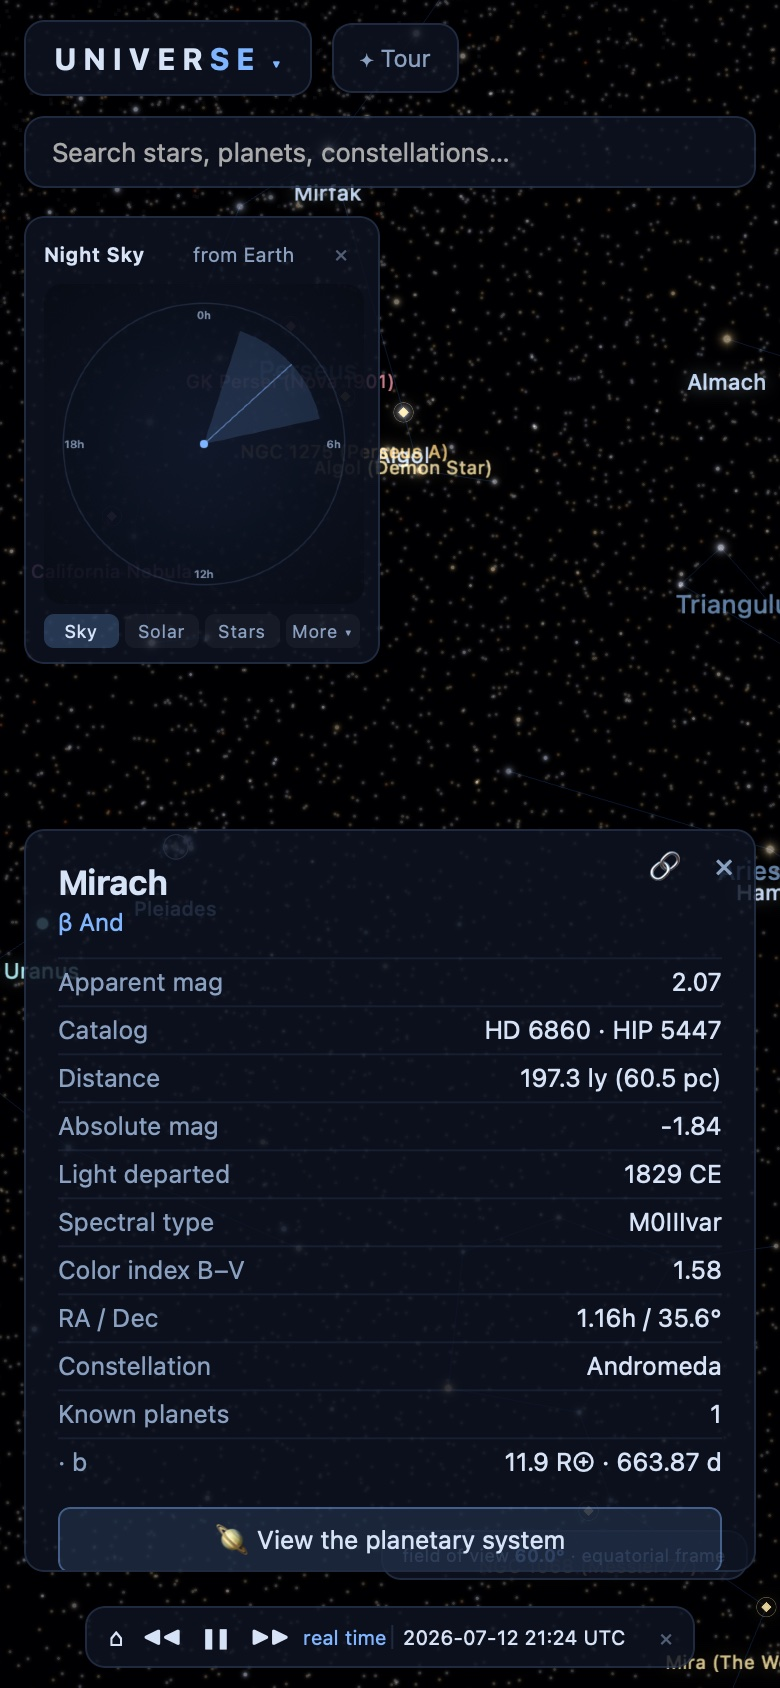
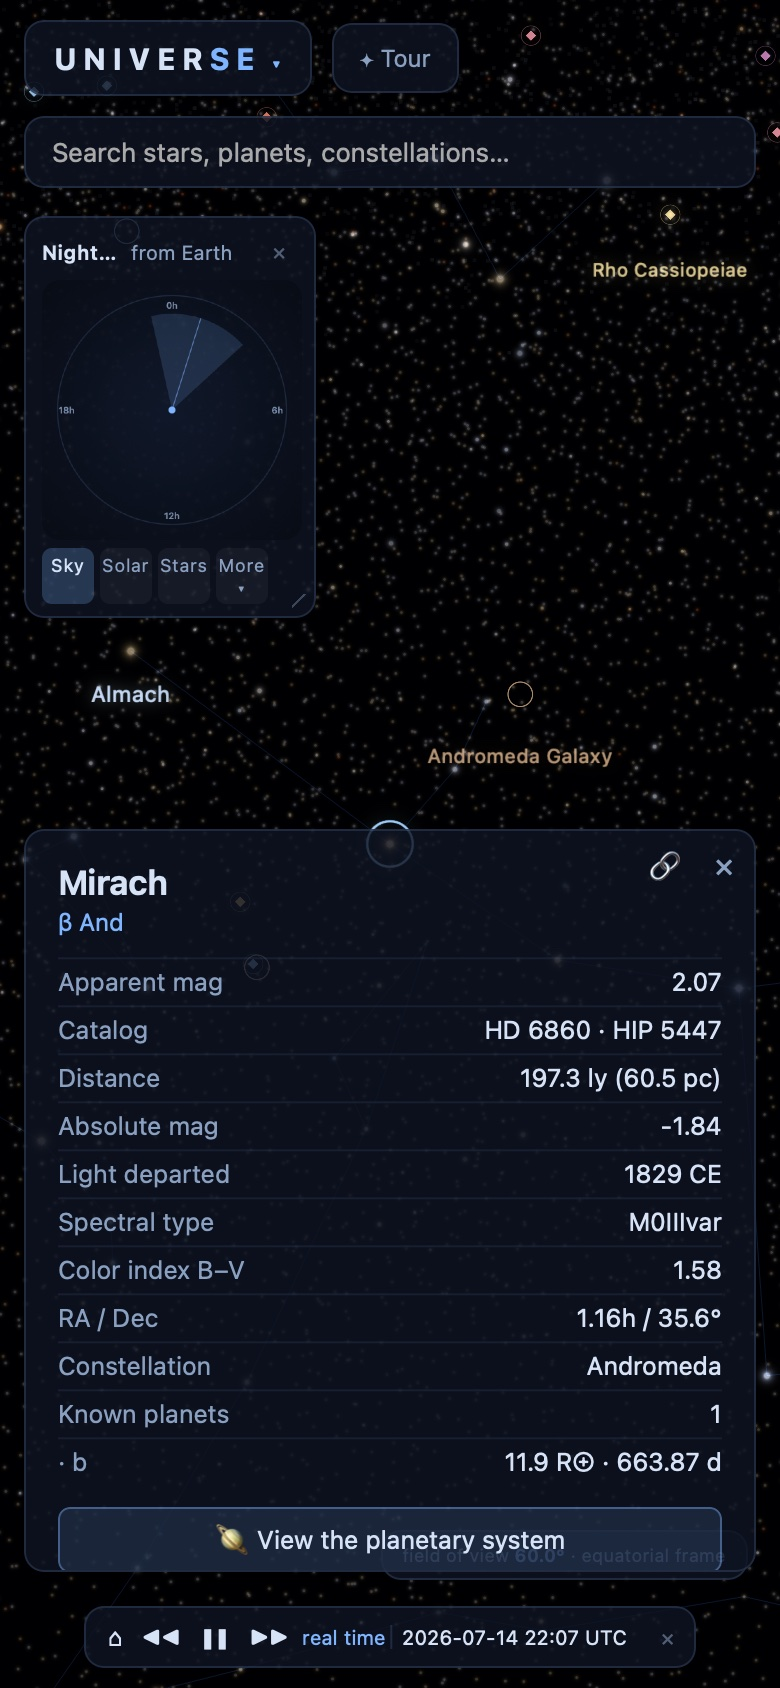
Sky labels: collision + chrome-aware declutter; retaken mobile figure; resume graphics variant; case-study performance passage; prose sweep

diff --git a/universe/js/main.js b/universe/js/main.js
@@ -618,6 +618,7 @@ for (const c of CONS) {
   const sp = makeTextSprite(c.name, { size: 13, color: '#6f93bd', alpha: 0.85 });
   sp.position.copy(dirVec(c.label[0], c.label[1]).multiplyScalar(R_SKY * 0.98));
   sp.renderOrder = 7;
+  sp.userData.dPri = 40;                       // sky declutter: constellations above markers
   conLabelGroup.add(sp);
   labelGroups.sky.push(sp);
 }
@@ -632,6 +633,7 @@ for (const [idxStr, name] of Object.entries(STARS.names)) {
   sp.center.set(0.5, 1.5);
   sp.position.set(dirs[i * 3] * R_SKY * 0.99, dirs[i * 3 + 1] * R_SKY * 0.99, dirs[i * 3 + 2] * R_SKY * 0.99);
   sp.renderOrder = 7;
+  sp.userData.dPri = 20 + STARS.mag[i];        // sky declutter: brighter names win
   starNameGroup.add(sp);
   labelGroups.sky.push(sp);
 }
@@ -708,6 +710,7 @@ const dsoDirs = [];
     dsoGroup.add(mark);
     labelGroups.sky.push(mark);
     const lab = makeTextSprite(name, { size: 10, color: dsoColors[type], alpha: 0.8 });
+    lab.userData.dPri = 60;                    // sky declutter: below star & constellation names
     lab.center.set(0.5, 2.0);
     lab.position.copy(mark.position);
     lab.renderOrder = 7;
@@ -761,6 +764,8 @@ function makeMarkerTexture(color) {
     lab.center.set(0.5, 1.9);
     lab.position.copy(mark.position);
     lab.renderOrder = 8;
+    lab.userData.dPri = 80;                    // sky declutter: yield to star/constellation names
+    lab.userData.dGate = () => mark.visible;   // category toggles own the mark; follow it
     phenomGroup.add(lab);
     labelGroups.sky.push(lab);
     phenomByCat[ph.cat].push(mark, lab);
@@ -958,6 +963,7 @@ for (const name of SKY_BODIES) {
   const lab = makeTextSprite(name, { size: 11, color: col, alpha: 0.95 });
   lab.center.set(0.5, 1.6);
   lab.renderOrder = 7;
+  lab.userData.dPri = 1;                       // sky declutter: planets always keep their names
   skyPlanetGroup.add(disc, lab);
   labelGroups.sky.push(disc, lab);
   skyBodies[name] = { disc, lab, dir: new THREE.Vector3(1, 0, 0), raDec: { ra: 0, dec: 0, r: 1 } };
@@ -2806,6 +2812,47 @@ const neiStarLabels = [];
 // resolves into whatever actually fits instead of printing into one knot.
 let _neiDeclutterList = null;
 const _dlV = new THREE.Vector3();
+// Sky labels compete for screen space the same way the stars view's do: sorted by
+// priority (planets, then bright star names, constellations, DSOs, phenomena), each
+// label claims its on-screen box and lower-priority overlaps are hidden. Labels whose
+// layer is off (parent group hidden, or a phenomena category unchecked) neither show
+// nor reserve space, and their toggle state is never overwritten.
+let _skyDeclutterList = null;
+// the fixed interface panels claim their screen space first, so no label ever
+// prints underneath the search bar, minimap, info card, tour card or time bar
+const _chromeIds = ['topbar', 'searchbox', 'locator', 'infocard', 'timebar', 'scalebar', 'fly-hud', 'tour', 'panel'];
+function declutterSkyLabels() {
+  if (!_skyDeclutterList) {
+    _skyDeclutterList = labelGroups.sky
+      .filter((sp) => sp.userData.dPri !== undefined)
+      .sort((a, b) => a.userData.dPri - b.userData.dPri);
+  }
+  const placed = [];
+  for (const id of _chromeIds) {
+    const el = document.getElementById(id);
+    if (!el) continue;
+    const cs = getComputedStyle(el);
+    if (cs.display === 'none' || cs.visibility === 'hidden' || +cs.opacity === 0) continue;
+    const r = el.getBoundingClientRect();
+    if (!r.width || !r.height) continue;
+    placed.push({ x: r.left + r.width / 2, y: r.top + r.height / 2, w: r.width, h: r.height });
+  }
+  for (const sp of _skyDeclutterList) {
+    if (!sp.parent || !sp.parent.visible) continue;          // layer off: leave it alone
+    if (sp.userData.dGate && !sp.userData.dGate()) continue; // category off: same
+    _dlV.copy(sp.position).applyQuaternion(skyGroup.quaternion).project(skyCam);
+    if (_dlV.z > 1) { sp.visible = false; continue; }
+    const w = sp.userData.pxW + 6, h = sp.userData.pxH + 4;
+    const x = (_dlV.x + 1) / 2 * innerWidth + (0.5 - sp.center.x) * sp.userData.pxW;
+    const y = (-_dlV.y + 1) / 2 * innerHeight + (sp.center.y - 0.5) * sp.userData.pxH;
+    let hit = false;
+    for (const q of placed) {
+      if (Math.abs(x - q.x) * 2 < w + q.w && Math.abs(y - q.y) * 2 < h + q.h) { hit = true; break; }
+    }
+    sp.visible = !hit;
+    if (!hit) placed.push({ x, y, w, h });
+  }
+}
 function declutterNeiLabels(state) {
   if (!_neiDeclutterList) {
     _neiDeclutterList = labelGroups.neighborhood
@@ -6469,6 +6516,7 @@ function animate(now) {
     }
     updateSkyBodies(time.jd);
     updateHorizonFrame(time.jd);
+    declutterSkyLabels();
     // Exoplanet dots scale with zoom: at wide fields thousands of additive points
     // stack up (the Kepler field burned into a solid slab); smaller + dimmer when
     // zoomed out keeps the field a resolved cluster of gold points, and zooming in

diff --git a/studies/universe.html b/studies/universe.html
@@ -116,6 +116,7 @@
     </figure>
     <h2><span>DECISION 04</span>Load only what the first minute needs</h2>
     <p>The heaviest UX problem was the loading bar. The scene gated on tens of megabytes of 8K planet textures a first-time visitor couldn't yet see the value of. The fix is progressive: the loader now waits only for lightweight 2K stand-ins, then the full-resolution maps stream in one at a time behind the already-live scene and swap in invisibly. Time-to-interactive dropped roughly five-fold, and nothing pops or flashes. The first Jupiter you see is a slightly softer version of the one you can orbit a minute later.</p>
+    <p>While the page sits idle, the model also precompiles every scene's shaders and uploads every texture to the GPU, so the first visit to each scale doesn't stutter on setup work. If a device can't hold 60 frames per second, the render resolution steps down a quarter at a time until it can, with enough hysteresis that it never flickers between states. And all 119,625 stars draw in one GPU call, with each star's vertex deciding its own visibility, so the magnitude slider can reveal the whole catalog at no extra cost.</p>
     <h2><span>DECISION 05</span>The same universe, one hand</h2>
     <p>Half of first visits arrive on a phone, so the phone version had to carry the full universe. I mapped touch onto the physics the model already had. Pinch feeds the same continuous zoom as the scroll wheel, so two fingers carry you from Saturn's rings out to the cosmic web. Two-finger drag pans, a tap selects, and a double-tap flies you to whatever you tapped. One wrinkle: a pinch always ends with a finger lifting, so the app has to tell “selected a star” apart from “finished zooming.”</p>
     <p>Flight was the one part I had to redesign. The desktop ship is flown with a keyboard. On a phone, a 🚀 button appears instead, and the ship starts at rest, because motion you didn't ask for is disorienting. Holding a finger down is thrust, and lifting it recenters the flight stick. The keyboard legend becomes a three-button HUD: Cruise, View, Exit. The guided tour adapts too. On a phone it teaches the 🚀 button, says “tap” and “pinch,” and info cards become full-width bottom sheets that slide over the sky instead of floating panels beside it.</p>
@@ -123,12 +124,12 @@
       <img class="plate-img" style="max-width:min(320px,100%);display:inline-block" src="../assets/uni-mobile.jpg" alt="The Universe app at phone width: the night sky with the minimap compass, and a full-width bottom-sheet card for the star Mirach listing its distance, spectral type, its known planet, and a 'View the planetary system' action">
       <figcaption>FIG. 1G · the same model at 390px: bottom-sheet cards, the minimap compass, and a tapped star's card, including its known exoplanet and a one-tap jump to its planetary system.</figcaption>
     </figure>
-    <p>The rest of the mobile pass chased each bug to its cause. The minimap's scale ladder overflowed its card on actual phones: enlarging the touch targets with horizontal padding had quietly made the row wider than its container, so the touch chips now grow vertically only. Render resolution is capped lower on phones to save battery and heat. The progressive 2K textures matter twice as much over cellular. Form inputs hold 16px so iOS stops zooming the page when you tap them, the layout respects the notch, the star twinkle turns itself off for people who prefer reduced motion, and if WebGL isn't available the loader says so instead of spinning forever.</p>
+    <p>The rest of the mobile pass chased each bug to its cause. The minimap's scale ladder overflowed its card on actual phones: enlarging the touch targets with horizontal padding had made the row wider than its container, so the touch chips now grow vertically only. Render resolution is capped lower on phones to save battery and heat. The progressive 2K textures matter twice as much over cellular. Form inputs hold 16px so iOS stops zooming the page when you tap them, the layout respects the notch, the star twinkle turns itself off for people who prefer reduced motion, and if WebGL isn't available the loader says so instead of spinning forever.</p>
     <h2><span>DECISION 06</span>The camera never moves uninvited</h2>
-    <p>Clicking a star used to zoom toward it. It took three versions to learn why that felt wrong. The first version recentered the camera on the clicked star, and the view lurched. The second replaced the lurch with a smooth glide, and it still felt like the model had grabbed the wheel. The third version moves nothing: a click draws a ring around the star, opens its card, and quietly re-anchors the zoom axis, so the star eases toward center only as you choose to zoom in. Back out again and your original framing returns exactly.</p>
+    <p>Clicking a star used to zoom toward it. It took three versions to learn why that felt wrong. The first version recentered the camera on the clicked star, and the view lurched. The second replaced the lurch with a smooth glide, and it still felt like the model had grabbed the wheel. The third version moves nothing: a click draws a ring around the star, opens its card, and re-anchors the zoom axis, so the star eases toward center only as you choose to zoom in. Back out again and your original framing returns exactly.</p>
     <p>The principle that fell out of those three rounds now governs the whole model: any camera motion the user didn't ask for is a bug. It shaped the fly-mode captures too. Early on, returning to the solar system meant hitting a pinpoint target in three dimensions, and most approaches missed. Now aiming anywhere near the Sun inside an approach cone carries you in, with a halo of rings growing ahead as the capture takes hold, so arrival reads as something you did on purpose.</p>
     <h2><span>THE CUTS</span>What I built and then deleted</h2>
-    <p>Some of the most useful design work on this model was deletion. Detailed 3D asteroid models, procedurally cratered and lit, replaced the simple glowing markers and made the belt read as clutter; the markers went back in. Scale models of the Apollo landers and Soviet rovers on the Moon looked like toys next to real imagery; the plain gold site markers said more. A rocket launcher with animated exhaust was fun for one flight and gimmicky by the third; deleted outright, about 235 lines. And a full set of speculative megastructures (a Dyson sphere, a space elevator, an Alcubierre warp bubble) was cut on principle: everything else in the model is real, and fiction sitting next to catalog data undermines the catalog data.</p>
+    <p>A lot of the design work on this model was deletion. Detailed 3D asteroid models, procedurally cratered and lit, replaced the simple glowing markers and made the belt read as clutter; the markers went back in. Scale models of the Apollo landers and Soviet rovers on the Moon looked like toys next to real imagery; the plain gold site markers said more. A rocket launcher with animated exhaust was fun for one flight and gimmicky by the third; deleted outright, about 235 lines. And a full set of speculative megastructures (a Dyson sphere, a space elevator, an Alcubierre warp bubble) was cut on principle: everything else in the model is real, and fiction sitting next to catalog data undermines the catalog data.</p>
     <p>Each cut followed the same test. If a feature makes the model more impressive but less credible, it goes. The physics visualizations stayed (spacetime curvature, the dark-matter halo) because they illustrate real science; the props went because they didn't.</p>
     <h2><span>THE DETAILS</span>Getting the small things right</h2>
     <p>The same principle runs under the surface: search closes when you click away and reopens where you left it; keyboard shortcuts survive the search box; the scale readout always tells you how wide the view is and how long light takes to cross it; star cards tell you when the light you're seeing left its star. The model also fails politely: if WebGL is unavailable the loader explains itself, the star twinkle turns off for visitors who prefer reduced motion, and every data source and artwork license ships as an attribution block inside the product. Nobody asks for these features, but they're what make the model feel dependable.</p>

diff --git a/resume.html b/resume.html
@@ -211,7 +211,10 @@
           textures, 21 moons, named asteroids, seven comets with dynamic anti-solar tails, and
           trans-Neptunian dwarf planets; time simulation spans the years 1000–3000.</li>
           <li>Orientation-first design: guided nine-stop tour, universal search across every rendered
-          object, data cards on click, and progressive texture loading for a fast first paint.</li>
+          object, and data cards on click.</li>
+          <li>Holds 60 fps with adaptive resolution scaling, idle-time shader precompilation and GPU
+          warm-up, progressive 8K texture streaming behind a 2K first paint, and a single-draw-call
+          point shader for all 119,625 stars.</li>
         </ul>
         <div class="cv-links">
           <a href="studies/universe.html">Read the case study →</a>

diff --git a/studies/a-souls-journey.html b/studies/a-souls-journey.html
@@ -69,11 +69,11 @@
       <div class="prose">
         <p>“Rest my soul” is a one-man choir: many voices, one performer, no score. Every part
         was found by ear, sung against the parts already recorded. The design problem was
-        keeping that complexity from reaching the listener, and the answer was one 3D virtual
+        keeping that complexity from reaching the listener, so everything lives in one 3D virtual
         world: a single landscape, built and animated to carry all the voices.</p>
         <p>The piece is really about the freedom that comes with singing every part yourself.
         There's no ensemble to write around, so the harmonic movement and the voice leading can
-        go wherever I want them to. That freedom, both creative and harmonic, is what the piece explores.</p>
+        go wherever I want them to. The piece explores that creative and harmonic freedom.</p>
         <p>On screen you can see how it's made: a wall of my own faces, one for every voice,
         singing together while the world around them keeps opening. You see the whole system
         and still hear one piece of music.</p>

diff --git a/studies/lifes-meaning.html b/studies/lifes-meaning.html
@@ -53,7 +53,7 @@
     <div class="question"><span class="qlbl">The design question</span><p>How do you direct an animated world you didn't draw yourself?</p></div>
     <p>“Life's Meaning” is an investigation into why we exist, in song. A question that big can't be illustrated literally without shrinking it, so the film became a collaboration with animator Caleb Worcester: we discussed the vision, he created a storyboard, and we edited it together from there. I performed every instrument in the arrangement myself: voice, piano, synthesizer, and the rest.</p>
     <div class="pao"><div><span>Challenge</span><p>Pair a philosophical question with images without reducing it to illustration, and realize a complex piece through a craft (animation) that isn't mine.</p></div><div><span>Decisions</span><p>Work through the storyboard: talk the vision out together, let Caleb draft it, then edit it together until the world matched the piece, and only then start animating.</p></div><div><span>Result</span><p>An animated film where the music and the image ask the same question, mixed and mastered by Felix Li.</p></div></div>
-    <p>The world we arrived at doesn't illustrate any lyric: an upright piano overgrown with ivy at the edge of a pond at dusk, a rowboat, willows, fireflies over dark water. It's a world that fits the question: something made by hands, going back to nature, still glowing.</p>
+    <p>The world we arrived at doesn't illustrate any lyric: an upright piano overgrown with ivy at the edge of a pond at dusk, a rowboat, willows, fireflies over dark water. It's a world that fits the question: something made by hands, slowly going back to nature.</p>
     <p>Musically the piece is built the same way: voice and piano at the center, synthesizer widening the space around them. Every instrument is mine, so the build stays gradual and deliberate.</p>
     <div class="blocks">
       <div class="block">

diff --git a/studies/stock-evaluator.html b/studies/stock-evaluator.html
@@ -56,7 +56,7 @@
     <p>Over long horizons, the overwhelming majority of professionally managed funds fail to beat a simple index fund (S&amp;P's SPIVA scorecards have found it year after year), and individual investors, a large body of research has shown, tend to trail the market further still once their own buying and selling is counted. For almost everyone, the rational default is to buy the index and hold it. Consumer stock tools still lead with screeners, price targets, and “strong buy” badges, all optimized for action. The odds rarely appear in them anywhere.</p>
     <div class="question"><span class="qlbl">The design question</span><p>Is this stock actually better than just buying the index fund?</p></div>
     <p>So I built one around a single rule: <em>every number is presented against the alternative of just holding a total-market index fund.</em> Every verdict starts from one question: does this stock beat the index you could have bought instead? The product answers that before anything else.</p>
-    <div class="pao"><div><span>Problem</span><p>It's easy to find reasons to buy a stock, and hard to see what an index investor would have earned over the same period.</p></div><div><span>Approach</span><p>Rolling win rates across every historical entry point, Monte Carlo that samples stock and index together, a reverse DCF for what's already priced in, combined into a six-pillar score with a verdict phrased against the index.</p></div><div><span>Outcome</span><p>One command produces the full dossier and chart. Conservative defaults throughout: hypergrowth capped, missing data scored neutral, never punitive.</p></div></div>
+    <div class="pao"><div><span>Problem</span><p>Most tools surface reasons to buy a stock and never show what an index investor would have earned over the same period.</p></div><div><span>Approach</span><p>Rolling win rates across every historical entry point, Monte Carlo that samples stock and index together, a reverse DCF for what's already priced in, combined into a six-pillar score with a verdict phrased against the index.</p></div><div><span>Outcome</span><p>One command produces the full dossier and chart. Conservative defaults throughout: hypergrowth capped, missing data scored neutral, never punitive.</p></div></div>
     <h2><span>DECISION 01</span>The index is the baseline, everywhere</h2>
     <p>Every number the stock gets appears next to the same number for the benchmark: growth of $10,000 from a common start date, returns over matching windows, up and down capture, and win rates against it. You choose the benchmark: VTI by default, or VOO, SPY, QQQ, DIA, IWM, VXUS, even a mutual fund like FXAIX. Whatever you would actually buy instead is what the stock has to beat.</p>
     <figure class="plate">

diff --git a/studies/you-wont-love-me-back.html b/studies/you-wont-love-me-back.html
@@ -57,7 +57,7 @@
     acceptance, is something the lyrics never say outright, so the music had to say it.</p>
     <div class="pao"><div><span>Challenge</span><p>The resolution, wanting her happiness more than his own, would be cheapened if it were sung outright. The music and the film had to carry it.</p></div><div><span>Decisions</span><p>Write the character first, then build his world twice: a string trio composed as its own layer and handed to real players, and a film with Hannah Wyatt that keeps the staging quiet.</p></div><div><span>Result</span><p>One designed world in sound and film, with the strings carrying the acceptance. It's the first time my writing left my own hands, and the arrangement is better for what Emilia and Lily brought to it.</p></div></div>
     <p>Writing the trio was a different discipline from performing everything myself: the parts had to be complete on their own terms, because other musicians would be playing them.</p>
-    <p>The film is lit the way the song feels: one figure in a dark room, a single warm light from above. Nothing about the staging dramatizes the story. He sits with it, and the camera sits with him. This page borrows that lighting.</p>
+    <p>The film is lit the way the song feels: one figure in a dark room, a single warm light from above. Nothing about the staging dramatizes the story. He sits with it, and the camera holds still. This page borrows that lighting.</p>
     <div class="blocks">
       <div class="block">
         <h3>My role</h3>

diff --git a/universe/index.html b/universe/index.html
@@ -577,6 +577,6 @@
 </div>
 
 <script src="vendor/satellite.min.js"></script>
-<script type="module" src="js/main.js?v=27"></script>
+<script type="module" src="js/main.js?v=29"></script>
 </body>
 </html>